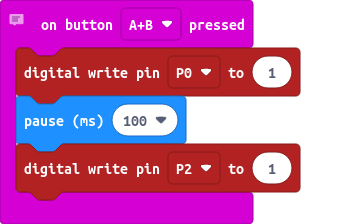
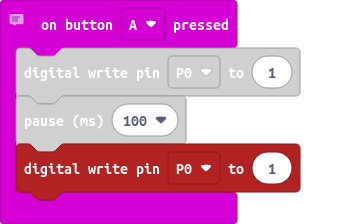
Update main.blocks, main.ts

Changed region(s): [[0.0312, 0.0, 0.875, 0.6875], [0.6562, 0.8438, 0.7188, 1.0], [0.5, 0.7188, 0.5625, 0.7812]]

diff --git a/main.ts b/main.ts
@@ -3,7 +3,7 @@
 input.onButtonPressed(Button.A, function () {
     pins.digitalWritePin(DigitalPin.P0, 1)
     basic.pause(100)
-    pins.digitalWritePin(DigitalPin.P1, 1)
+    pins.digitalWritePin(DigitalPin.P0, 1)
 })
 // pin0=red
 // pin1=green
